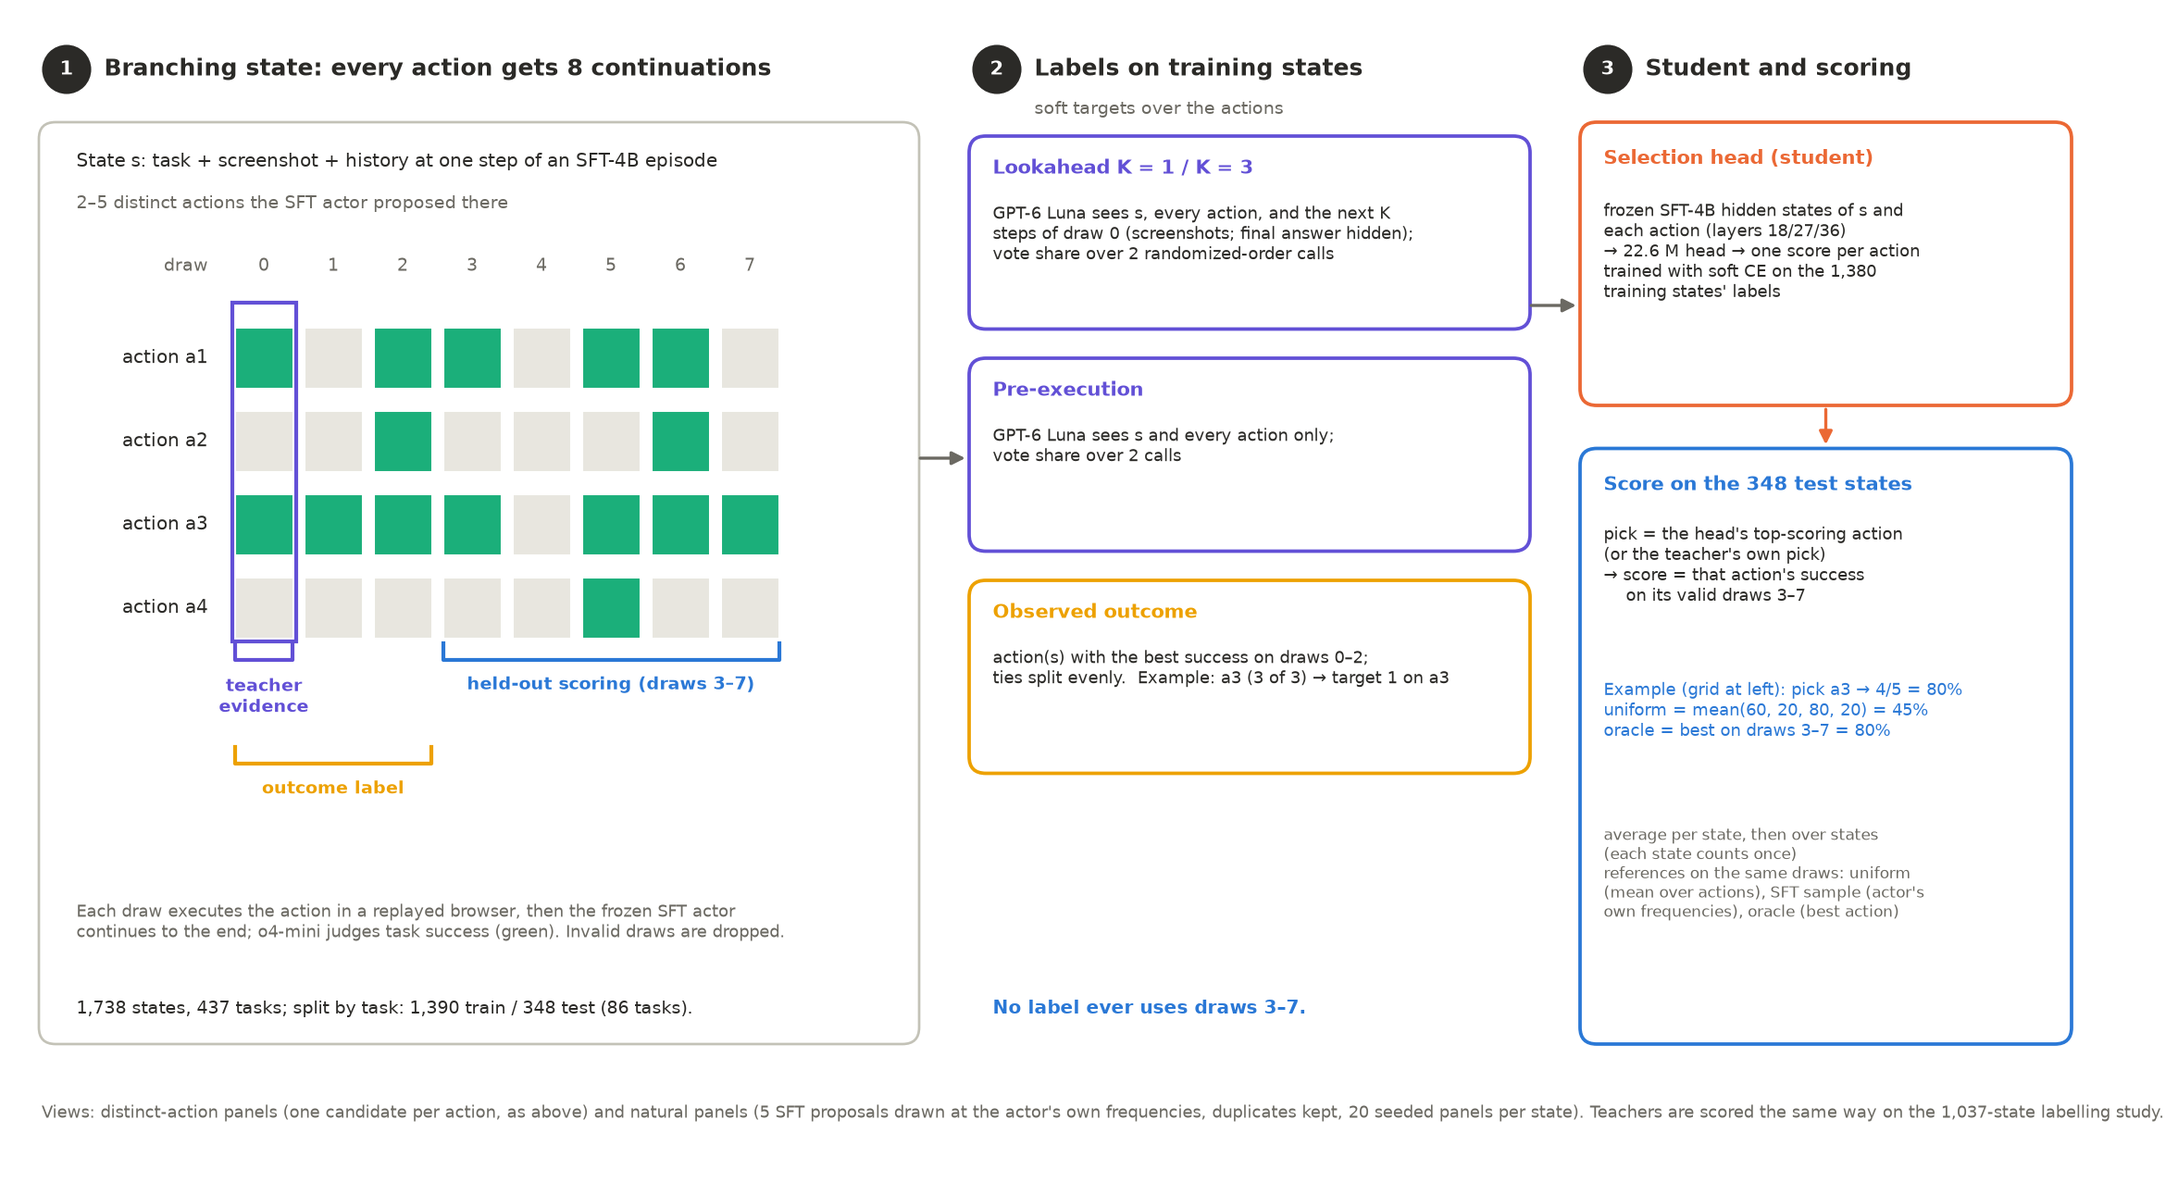
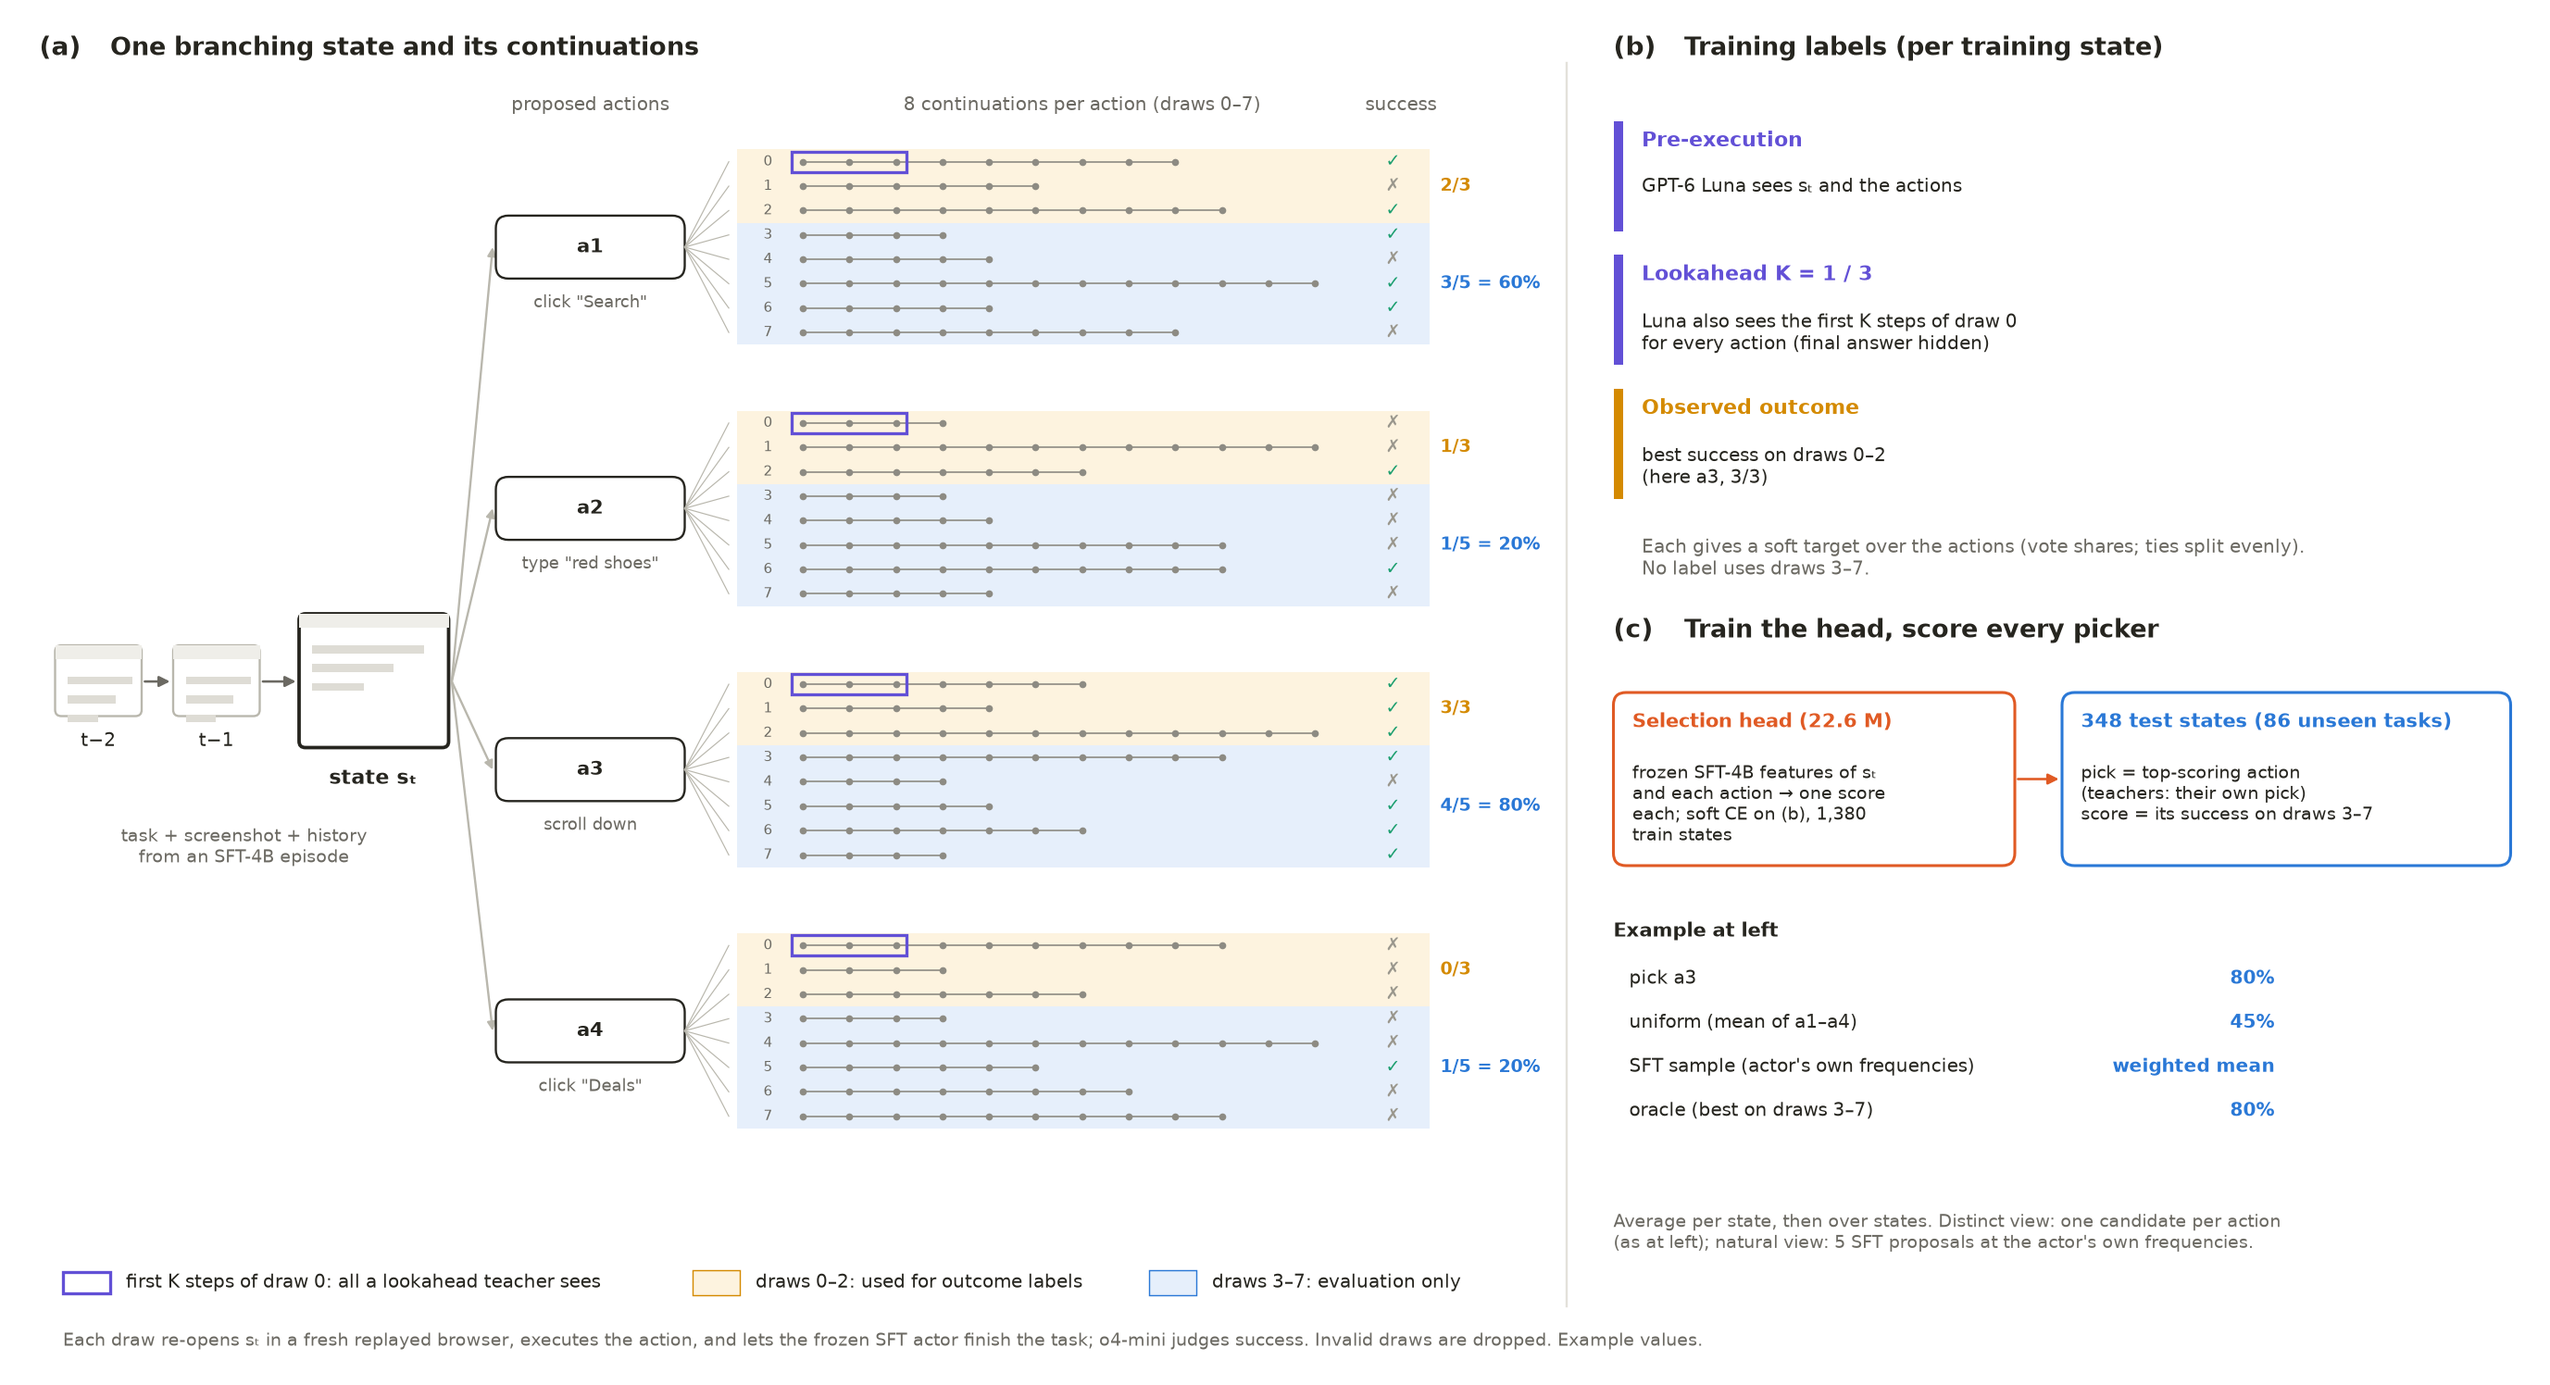
Offline-eval figure redrawn as a paper-style branching tree with per-draw rollouts

diff --git a/openwebrl/docs/arm_results/methods/selection-offline-eval-20261022.py b/openwebrl/docs/arm_results/methods/selection-offline-eval-20261022.py
@@ -1,89 +1,127 @@
-"""How labels are made and how teachers and selection heads are scored offline on SFT-actor branching states
-(scripts/train_head_round.py: targets, held_rate; 2026-10-21 ablation)."""
+"""Offline evaluation on SFT-actor branching states (scripts/train_head_round.py: targets, held_rate; 2026-10-21 ablation).
+(a) one branching state: 2-5 SFT-proposed actions, each executed in a replayed browser and continued 8 times by the frozen SFT
+actor to a judged outcome; (b) training labels; (c) training the head and scoring every picker on held-out draws."""
 from pathlib import Path
+import random
 import matplotlib
 matplotlib.use("Agg")
 import matplotlib.pyplot as plt
 from matplotlib.patches import FancyBboxPatch, Rectangle, FancyArrowPatch
 
-INK, MUTED, GRID = "#2b2a27", "#6b6962", "#c3c2b7"
-WIN, LOSE = "#1baf7a", "#e8e6df"
-TEACH, OUTC, HELD, STU = "#6250d6", "#eda100", "#2a78d6", "#eb6834"
-plt.rcParams.update({"font.size": 10, "text.color": INK})
-fig = plt.figure(figsize=(15, 8.4))
-ax = fig.add_axes([0, 0, 1, 1]); ax.set_xlim(0, 15); ax.set_ylim(0, 8.4); ax.axis("off")
+INK, MUTED, LINE = "#26251f", "#6b6962", "#b9b7ad"
+WIN, FAIL = "#1a9e6e", "#c9c6bc"
+TEACH, OUTC, HELD, STU = "#6250d6", "#d48a00", "#2a78d6", "#e05a24"
+OUTC_BG, HELD_BG = "#fdf3df", "#e6effb"
+plt.rcParams.update({"font.size": 9, "text.color": INK, "font.family": "DejaVu Sans"})
+fig = plt.figure(figsize=(16, 8.6))
+ax = fig.add_axes([0, 0, 1, 1]); ax.set_xlim(0, 16); ax.set_ylim(0, 8.6); ax.axis("off")
 
 
-def box(x, y, w, h, ec=GRID, fc="white", lw=1.3):
-    ax.add_patch(FancyBboxPatch((x, y), w, h, boxstyle="round,pad=0.02,rounding_size=0.12", fc=fc, ec=ec, lw=lw))
+def rbox(x, y, w, h, ec=LINE, fc="white", lw=1.0, r=0.08):
+    ax.add_patch(FancyBboxPatch((x, y), w, h, boxstyle=f"round,pad=0.0,rounding_size={r}", fc=fc, ec=ec, lw=lw))
 
 
-def arrow(x0, y0, x1, y1, color=MUTED):
-    ax.add_patch(FancyArrowPatch((x0, y0), (x1, y1), arrowstyle="-|>", mutation_scale=14, color=color, lw=1.6))
+def arrow(x0, y0, x1, y1, color=MUTED, lw=1.1, style="-|>", ms=10):
+    ax.add_patch(FancyArrowPatch((x0, y0), (x1, y1), arrowstyle=style, mutation_scale=ms, color=color, lw=lw, shrinkA=0, shrinkB=0))
 
 
-def step(n, x, y, title):
-    ax.add_patch(plt.Circle((x + 0.18, y), 0.17, color=INK))
-    ax.text(x + 0.18, y, str(n), color="white", ha="center", va="center", fontsize=10, weight="bold")
-    ax.text(x + 0.45, y, title, va="center", fontsize=12, weight="bold")
+def screen(x, y, w, h, ec=LINE, lw=1.0, label=None):
+    rbox(x, y, w, h, ec=ec, lw=lw, r=0.04)
+    ax.add_patch(Rectangle((x, y + h - 0.09), w, 0.09, fc="#efeee9", ec="none"))
+    for k in range(3):
+        ax.add_patch(Rectangle((x + 0.08, y + h - 0.25 - k * 0.12), w * (0.75 - 0.2 * k), 0.05, fc="#dedcd5", ec="none"))
+    if label:
+        ax.text(x + w / 2, y - 0.1, label, ha="center", va="top", fontsize=8.5)
 
 
-# 1. data
-step(1, 0.2, 8.0, "Branching state: every action gets 8 continuations")
-box(0.2, 1.0, 6.3, 6.6)
-ax.text(0.45, 7.3, "State s: task + screenshot + history at one step of an SFT-4B episode", fontsize=9.5)
-ax.text(0.45, 7.0, "2–5 distinct actions the SFT actor proposed there", fontsize=9, color=MUTED)
-draws = [[1, 0, 1, 1, 0, 1, 1, 0], [0, 0, 1, 0, 0, 0, 1, 0], [1, 1, 1, 1, 0, 1, 1, 1], [0, 0, 0, 0, 0, 1, 0, 0]]
-x0, cw, top = 1.55, 0.5, 6.3
-for k in range(8):
-    ax.text(x0 + k * cw + cw / 2, top + 0.25, str(k), ha="center", fontsize=9, color=MUTED)
-ax.text(x0 - 0.15, top + 0.25, "draw", ha="right", fontsize=9, color=MUTED)
-for i, row in enumerate(draws):
-    y = top - (i + 1) * 0.6
-    ax.text(x0 - 0.15, y + 0.22, f"action a{i + 1}", ha="right", va="center", fontsize=9.5)
-    for k, v in enumerate(row):
-        ax.add_patch(Rectangle((x0 + k * cw + 0.04, y), cw - 0.08, 0.44, fc=WIN if v else LOSE, ec="white"))
-yb = top - 4 * 0.6 - 0.15
-def bracket(k0, k1, color, label, dy):
-    xa, xb = x0 + k0 * cw + 0.04, x0 + (k1 + 1) * cw - 0.04
-    ax.plot([xa, xa, xb, xb], [yb - dy + 0.12, yb - dy, yb - dy, yb - dy + 0.12], color=color, lw=2)
-    ax.text((xa + xb) / 2, yb - dy - 0.12, label, ha="center", va="top", fontsize=9, color=color, weight="bold")
-bracket(0, 0, TEACH, "teacher\nevidence", 0.0)
-bracket(0, 2, OUTC, "outcome label", 0.75)
-bracket(3, 7, HELD, "held-out scoring (draws 3–7)", 0.0)
-ax.add_patch(Rectangle((x0 + 0.02, top - 4 * 0.6 - 0.02), cw - 0.04, 4 * 0.6 + 0.04, fc="none", ec=TEACH, lw=2))
-ax.text(0.45, 1.75, "Each draw executes the action in a replayed browser, then the frozen SFT actor\n"
-        "continues to the end; o4-mini judges task success (green). Invalid draws are dropped.", fontsize=8.8, color=MUTED)
-ax.text(0.45, 1.2, "1,738 states, 437 tasks; split by task: 1,390 train / 348 test (86 tasks).", fontsize=9.2)
+# ---------------- (a) one branching state ----------------
+ax.text(0.15, 8.35, "(a)", fontsize=12, weight="bold")
+ax.text(0.6, 8.35, "One branching state and its continuations", fontsize=11.5, weight="bold")
+# history
+screen(0.25, 4.15, 0.55, 0.45, label="t−2")
+screen(1.0, 4.15, 0.55, 0.45, label="t−1")
+arrow(0.82, 4.37, 0.98, 4.37)
+screen(1.8, 3.95, 0.95, 0.85, ec=INK, lw=1.6)
+arrow(1.57, 4.37, 1.78, 4.37)
+ax.text(2.27, 3.82, "state sₜ", ha="center", va="top", fontsize=9.5, weight="bold")
+ax.text(1.45, 3.45, "task + screenshot + history\nfrom an SFT-4B episode", ha="center", va="top", fontsize=8, color=MUTED)
 
-# 2. labels
-step(2, 6.9, 8.0, "Labels on training states")
-ax.text(7.35, 7.68, "soft targets over the actions", fontsize=9, color=MUTED)
-items = [("Lookahead K = 1 / K = 3", TEACH, "GPT-6 Luna sees s, every action, and the next K\nsteps of draw 0 (screenshots; final answer hidden);\nvote share over 2 randomized-order calls"),
-         ("Pre-execution", TEACH, "GPT-6 Luna sees s and every action only;\nvote share over 2 calls"),
-         ("Observed outcome", OUTC, "action(s) with the best success on draws 0–2;\nties split evenly.  Example: a3 (3 of 3) → target 1 on a3")]
-for j, (title, color, text) in enumerate(items):
-    y = 6.15 - j * 1.6
-    box(6.9, y, 4.0, 1.35, ec=color, lw=1.8)
-    ax.text(7.05, y + 1.1, title, fontsize=10, weight="bold", color=color)
-    ax.text(7.05, y + 0.88, text, fontsize=8.6, va="top")
-ax.text(7.05, 1.2, "No label ever uses draws 3–7.", fontsize=9.5, weight="bold", color=HELD)
-arrow(6.5, 5.2, 6.88, 5.2)
+actions = ['click "Search"', 'type "red shoes"', "scroll down", 'click "Deals"']
+outcomes = [[1, 0, 1, 1, 0, 1, 1, 0], [0, 0, 1, 0, 0, 0, 1, 0], [1, 1, 1, 1, 0, 1, 1, 1], [0, 0, 0, 0, 0, 1, 0, 0]]
+rng = random.Random(7)
+row_h, gap = 0.155, 0.42
+group_h = 8 * row_h
+tops = [7.75 - i * (group_h + gap) for i in range(4)]
+ax_x, roll_x0, roll_x1, end_x = 3.05, 5.0, 8.55, 8.75
+ax.text(ax_x + 0.6, 8.0, "proposed actions", ha="center", fontsize=8.5, color=MUTED)
+ax.text((roll_x0 + roll_x1) / 2, 8.0, "8 continuations per action (draws 0–7)", ha="center", fontsize=8.5, color=MUTED)
+ax.text(end_x + 0.05, 8.0, "success", ha="center", fontsize=8.5, color=MUTED)
+for i, (name, outs) in enumerate(zip(actions, outcomes)):
+    top = tops[i]; mid = top - group_h / 2
+    # edge from state to action
+    arrow(2.77, 4.37, ax_x - 0.02, mid, color=LINE, lw=1.0, ms=8)
+    rbox(ax_x, mid - 0.2, 1.2, 0.4, ec=INK, lw=1.0)
+    ax.text(ax_x + 0.6, mid, f"a{i + 1}", ha="center", va="center", fontsize=9, weight="bold")
+    ax.text(ax_x + 0.6, mid - 0.3, name, ha="center", va="top", fontsize=7.6, color=MUTED)
+    # draw bands
+    ax.add_patch(Rectangle((roll_x0 - 0.42, top - 3 * row_h), roll_x1 - roll_x0 + 0.85, 3 * row_h, fc=OUTC_BG, ec="none", zorder=0))
+    ax.add_patch(Rectangle((roll_x0 - 0.42, top - 8 * row_h), roll_x1 - roll_x0 + 0.85, 5 * row_h, fc=HELD_BG, ec="none", zorder=0))
+    for d, o in enumerate(outs):
+        y = top - (d + 0.5) * row_h
+        ax.plot([ax_x + 1.2, roll_x0 - 0.47], [mid, y], color=LINE, lw=0.5, zorder=1)
+        ax.text(roll_x0 - 0.22, y, str(d), ha="center", va="center", fontsize=6.5, color=MUTED)
+        n = rng.randint(4, 12)
+        xs = [roll_x0 + (roll_x1 - roll_x0) * k / 12 for k in range(n)]
+        ax.plot([xs[0], xs[-1]], [y, y], color="#8d8b83", lw=0.7, zorder=2)
+        ax.scatter(xs, [y] * n, s=5, color="#8d8b83", zorder=3)
+        if d == 0:     # lookahead window seen by the teacher
+            ax.add_patch(Rectangle((xs[0] - 0.07, y - 0.065), xs[2] - xs[0] + 0.14, 0.13, fc="none", ec=TEACH, lw=1.4, zorder=4))
+        ax.text(end_x, y, "✓" if o else "✗", ha="center", va="center", fontsize=8, color=WIN if o else "#9a978d", weight="bold")
+    a, h = sum(outs[:3]), sum(outs[3:])
+    ax.text(end_x + 0.3, top - 1.5 * row_h, f"{a}/3", va="center", fontsize=8, color=OUTC, weight="bold")
+    ax.text(end_x + 0.3, top - 5.5 * row_h, f"{h}/5 = {20 * h}%", va="center", fontsize=8, color=HELD, weight="bold")
+# legend for (a)
+ly = 0.55
+ax.add_patch(Rectangle((0.3, ly - 0.07), 0.3, 0.14, fc="none", ec=TEACH, lw=1.4))
+ax.text(0.7, ly, "first K steps of draw 0: all a lookahead teacher sees", va="center", fontsize=8.5)
+ax.add_patch(Rectangle((4.3, ly - 0.08), 0.3, 0.16, fc=OUTC_BG, ec=OUTC, lw=0.6))
+ax.text(4.7, ly, "draws 0–2: used for outcome labels", va="center", fontsize=8.5)
+ax.add_patch(Rectangle((7.2, ly - 0.08), 0.3, 0.16, fc=HELD_BG, ec=HELD, lw=0.6))
+ax.text(7.6, ly, "draws 3–7: evaluation only", va="center", fontsize=8.5)
+ax.text(0.3, 0.15, "Each draw re-opens sₜ in a fresh replayed browser, executes the action, and lets the frozen SFT actor finish the task; "
+        "o4-mini judges success. Invalid draws are dropped. Example values.", fontsize=8, color=MUTED)
 
-# 3. student
-step(3, 11.3, 8.0, "Student and scoring")
-box(11.3, 5.6, 3.5, 2.0, ec=STU, lw=1.8)
-ax.text(11.45, 7.32, "Selection head (student)", fontsize=10, weight="bold", color=STU)
-ax.text(11.45, 7.05, "frozen SFT-4B hidden states of s and\neach action (layers 18/27/36)\n→ 22.6 M head → one score per action\n"
-        "trained with soft CE on the 1,380\ntraining states' labels", fontsize=8.6, va="top")
-arrow(10.9, 6.3, 11.28, 6.3)
-box(11.3, 1.0, 3.5, 4.25, ec=HELD, lw=1.8)
-ax.text(11.45, 4.97, "Score on the 348 test states", fontsize=10, weight="bold", color=HELD)
-ax.text(11.45, 4.72, "pick = the head's top-scoring action\n(or the teacher's own pick)\n→ score = that action's success\n    on its valid draws 3–7", fontsize=8.8, va="top")
-ax.text(11.45, 3.6, "Example (grid at left): pick a3 → 4/5 = 80%\nuniform = mean(60, 20, 80, 20) = 45%\noracle = best on draws 3–7 = 80%", fontsize=8.8, va="top", color=HELD)
-ax.text(11.45, 2.55, "average per state, then over states\n(each state counts once)\nreferences on the same draws: uniform\n(mean over actions), SFT sample (actor's\nown frequencies), oracle (best action)", fontsize=8.3, va="top", color=MUTED)
-arrow(13.05, 5.58, 13.05, 5.27, STU)
-ax.text(0.2, 0.45, "Views: distinct-action panels (one candidate per action, as above) and natural panels (5 SFT proposals drawn at the actor's own "
-        "frequencies, duplicates kept, 20 seeded panels per state). Teachers are scored the same way on the 1,037-state labelling study.",
-        fontsize=8.8, color=MUTED)
-fig.savefig(Path(__file__).with_suffix(".png"), dpi=150, bbox_inches="tight", facecolor="white")
+# ---------------- (b) labels ----------------
+bx = 10.15
+ax.plot([9.85, 9.85], [0.4, 8.3], color="#e3e1da", lw=1)
+ax.text(bx, 8.35, "(b)", fontsize=12, weight="bold")
+ax.text(bx + 0.45, 8.35, "Training labels (per training state)", fontsize=11.5, weight="bold")
+labels = [("Pre-execution", TEACH, "GPT-6 Luna sees sₜ and the actions"),
+          ("Lookahead K = 1 / 3", TEACH, "Luna also sees the first K steps of draw 0\nfor every action (final answer hidden)"),
+          ("Observed outcome", OUTC, "best success on draws 0–2\n(here a3, 3/3)")]
+for j, (title, color, text) in enumerate(labels):
+    y = 7.55 - j * 0.85
+    ax.add_patch(Rectangle((bx, y - 0.32), 0.06, 0.7, fc=color, ec="none"))
+    ax.text(bx + 0.18, y + 0.22, title, fontsize=9.5, weight="bold", color=color)
+    ax.text(bx + 0.18, y + 0.02, text, fontsize=8.3, va="top")
+ax.text(bx + 0.18, 5.15, "Each gives a soft target over the actions (vote shares; ties split evenly).\nNo label uses draws 3–7.", fontsize=8.3, va="center", color=MUTED)
+
+# ---------------- (c) train and score ----------------
+ax.text(bx, 4.65, "(c)", fontsize=12, weight="bold")
+ax.text(bx + 0.45, 4.65, "Train the head, score every picker", fontsize=11.5, weight="bold")
+rbox(bx, 3.2, 2.55, 1.1, ec=STU, lw=1.3)
+ax.text(bx + 0.12, 4.08, "Selection head (22.6 M)", fontsize=9, weight="bold", color=STU)
+ax.text(bx + 0.12, 3.85, "frozen SFT-4B features of sₜ\nand each action → one score\neach; soft CE on (b), 1,380\ntrain states", fontsize=7.9, va="top")
+rbox(bx + 2.85, 3.2, 2.85, 1.1, ec=HELD, lw=1.3)
+ax.text(bx + 2.97, 4.08, "348 test states (86 unseen tasks)", fontsize=9, weight="bold", color=HELD)
+ax.text(bx + 2.97, 3.85, "pick = top-scoring action\n(teachers: their own pick)\nscore = its success on draws 3–7", fontsize=7.9, va="top")
+arrow(bx + 2.57, 3.75, bx + 2.83, 3.75, color=STU)
+ax.text(bx, 2.75, "Example at left", fontsize=9, weight="bold")
+rows = [("pick a3", "80%"), ("uniform (mean of a1–a4)", "45%"), ("SFT sample (actor's own frequencies)", "weighted mean"), ("oracle (best on draws 3–7)", "80%")]
+for k, (lab, val) in enumerate(rows):
+    y = 2.45 - k * 0.28
+    ax.text(bx + 0.1, y, lab, fontsize=8.5)
+    ax.text(bx + 4.2, y, val, fontsize=8.5, ha="right", color=HELD, weight="bold")
+ax.text(bx, 1.0, "Average per state, then over states. Distinct view: one candidate per action\n(as at left); natural view: 5 SFT proposals at the "
+        "actor's own frequencies.", fontsize=8, color=MUTED, va="top")
+fig.savefig(Path(__file__).with_suffix(".png"), dpi=170, bbox_inches="tight", facecolor="white")

diff --git a/openwebrl/docs/ARM_SELECTION_HEAD.md b/openwebrl/docs/ARM_SELECTION_HEAD.md
@@ -191,9 +191,9 @@
 
 **How the offline evaluation works.** Labels come from draws 0–2 (outcome) or from what draw 0 shows a teacher; every picker, teacher or trained head, is scored on the same held-out draws 3–7 of test states it never trained on.
 
-![Offline evaluation: each branching state has 2–5 SFT-proposed actions with 8 continuation draws each; lookahead teachers see draw 0, outcome labels use draws 0–2, and scoring uses only draws 3–7; the selection head is trained on 1,380 training states' labels and scored on 348 test states by its top action's success on draws 3–7, against uniform, SFT-sample and oracle references](arm_results/methods/selection-offline-eval-20261022.png)
+![Offline evaluation. (a) A branching state from an SFT-4B episode fans out into its proposed actions; each action gets 8 continuation rollouts by the frozen SFT actor, judged success or failure. Lookahead teachers see only the first K steps of draw 0, outcome labels use draws 0–2, and draws 3–7 are kept for evaluation. (b) Pre-execution, lookahead and outcome labels give soft targets on training states. (c) The head is trained on 1,380 training states and every picker is scored by its pick's success on draws 3–7 of 348 test states, against uniform, SFT-sample and oracle references](arm_results/methods/selection-offline-eval-20261022.png)
 
-*[Figure script](arm_results/methods/selection-offline-eval-20261022.py); labels and scoring: `scripts/train_head_round.py` (`targets`, `held_rate`). The grid is a made-up example.*
+*[Figure script](arm_results/methods/selection-offline-eval-20261022.py); labels and scoring: `scripts/train_head_round.py` (`targets`, `held_rate`). Rollouts and outcomes in (a) are an illustrative example.*
 
 **Offline (348 held-out test states, 86 tasks; picks scored by held-out success on draws 3–7, valid only).**
 
